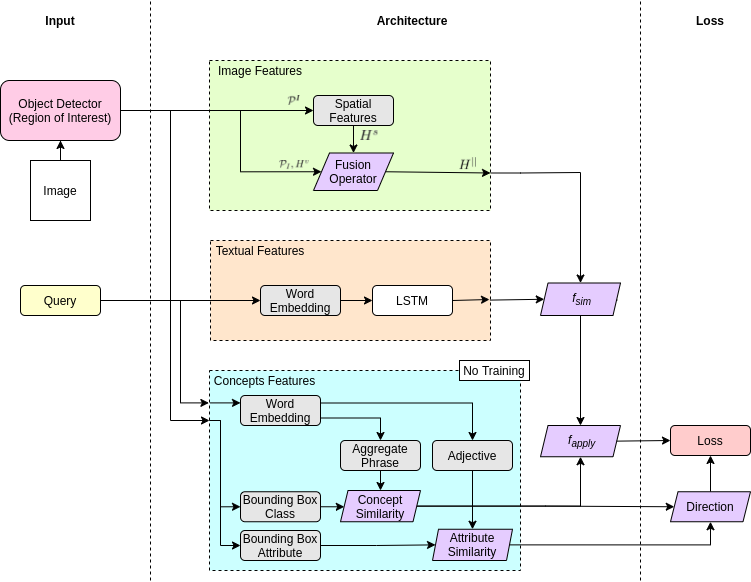
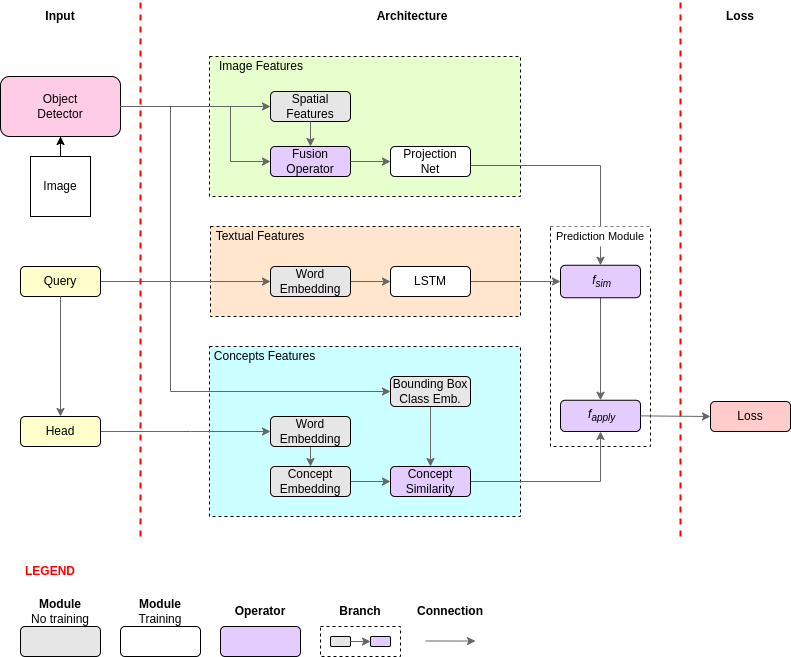
fix(model): minor rephrase, touch up, model architecture fig

diff --git a/chapters/model.tex b/chapters/model.tex
@@ -1,13 +1,7 @@
 %!TEX root = ../dissertation.tex
-\begin{savequote}[75mm]
-This is some random quote to start off the chapter.
-\qauthor{Firstname lastname}
-\end{savequote}
 
 \chapter{Model and approach}
 \label{ch:model}
-
-\todo{rivedere il titolo del capitolo}
 
 \section{Model}
 
@@ -20,8 +14,6 @@ with the prediction and loss modules in
 Sec.~\ref{subsec:prediction-module} and \ref{sec:loss}. We then
 conclude highlighting the training and inference protocol in
 Sec.~\ref{sec:training-and-inference}.
-
-TODO \todo{CAMBIARE IMMAGINE, QUESTA é QUELLA SBAGLIATA}
 
 \begin{figure}
   \centering
@@ -49,7 +41,7 @@ TODO \todo{CAMBIARE IMMAGINE, QUESTA é QUELLA SBAGLIATA}
 
 Given an image $\bm{I}$, we extract a set of $k$ bounding box
 proposals $\calP_{\bm{I}} = \{ \bm{p}_i \}^k_{i=1}$ by means of a
-pre-trained object detector where $p_i \in \Rset^4$, jointly with
+pre-trained object detector where $\bm{p}_i \in \Rset^4$, jointly with
 features $H^v = \{ \bm{h}^v_i \}^k_{i=1}$, where $\bm{h}^v_i \in
 \Rset^v$. The features represent the internal object detector
 activation values before the classification layers and regression
@@ -68,7 +60,7 @@ a set of new vectorial representations $H^{||} = \{ \bm{h}^{||}_{jz}
 \}_{j \in [1, \ldots, m], z \in [1, \ldots, k]}$, where vectors
 $\bm{h}^{||}_{jz}$ are defined as:
 \begin{equation}
-  \bm{h}^{||}_{jz} = \bm{W}^{||} \left( \bm{h}^s_z || L1(\bm{h}^v_z) \right) + \bm{b}^{||}
+  \bm{h}^{||}_{jz} = \bm{W}^{||} \big( \bm{h}^s_z || L1(\bm{h}^v_z) \big) + \bm{b}^{||}
   \label{eq:h-par-jz}
 \end{equation}
 where $||$ indicates the concatenation operator, $\bm{h}^{||}_{jz} \in
@@ -88,13 +80,12 @@ detectors, and it will be used in Sec.~\ref{subsec:similarity-branch} to define 
 
 Regarding the textual features extraction, given a noun phrase
 $\bm{q}_j$, initially all its words $W^{\bm{q}_j} = \{ w^{\bm{q}_j}_i
-\}^l_{i=1}$ are embedded in a set of vectors $E^{\bm{q}_j} =
-\{e^{\bm{q}_j}_i \}^l_{i=1}$ where $e^{\bm{q}_j}_i \in \Rset^w$, where
-$w$ is the size of the embedding. Then, our model applies a LSTM
-neural network (Sec.~\ref{subsec:gated-rnn}) to generate from the
-sequence of word embeddings only one new embedding $\bm{h}^*_j$ for
-each phrase $\bm{q}_j$. This textual features extraction is defined
-as:
+\}^l_{i=1}$ are embedded in a set of vectors $E^{\bm{q}_j} = \{ \eqj_i
+\}^l_{i=1}$ where $\eqj_i \in \Rset^w$, where $w$ is the size of the
+embedding. Then, our model applies a LSTM neural network
+(Sec.~\ref{subsec:gated-rnn}) to generate from the sequence of word
+embeddings only one new embedding $\bm{h}^*_j$ for each phrase
+$\bm{q}_j$. This textual features extraction is defined as:
 \begin{equation}
   \bm{h}^*_j = L1(LSTM(E^{\bm{q}_j}))
   \label{eq:h-star}
@@ -126,11 +117,16 @@ way that it can express the content of a proposal. This information is
 made available by the object detector, which usually return a
 probability distribution over a set of labels, for each proposal
 (Sec.~\ref{subsec:visual-branch}). We can easily gather the label that
-best express proposal's content by simply taking label looking for the
-one with maximum probability. This label is just a word (or, in some
-case a combination of words), that can be naturally embedded in the
-word embeddings space. The word embedding that express phrase concept,
-instead, can be a word from the phrase or a combination of words.
+best express proposal's content by simply taking the label with
+maximum probability. Such label is just a word (or, in few cases a
+combination of words), that can be naturally embedded in the word
+embeddings space. The word embedding that express phrase concept,
+instead, can be a single word selected from the phrase or a
+combination of words. Following a similar idea of
+\cite{javed2018learning} where they perform concept selection
+filtering out non-noun words, we select the concept among heads of
+phrase. Heads are extracted trough an off-the-shelf parser
+(Sec.~\ref{subsec:nlp-tools}). 
 
 Formally, we define $\EPI = \{\ePI_i \}^{k}_{i=1}$ the set of labels
 embeddings build on the set of proposal $\calP^{\bm{I}}$. Each
@@ -139,17 +135,17 @@ maximum probability by the object detector for the $i$-th proposal.
 Then, given a noun phrase $\bm{q}_j$ along with $E^{\bm{q}_j}$, we
 compute the concept similarity score for each proposal $\bm{p}_i$ as:
 \begin{equation}
-  \bm{S}^c_{ji} = \fsim \left( \xi_j, \ePI_i \right),
+  \bm{S}^c_{ji} = \fsim \left( \erqj_j, \ePI_i \right),
 \end{equation}
-where $\fsim$ is a similarity measure such us the cosine similarity,
-and $\xi_j$ is the embedding representing the concept of the noun
-phrase $\qj$. The new embedding $\xi_j$ can be computed with various
-strategies, and we can group these into two main groups. The first is
-the group where we can find operators that take into account the
+where $\fsim$ is a similarity measure (such us the cosine similarity),
+and $\erqj_j$ is the embedding representing the concept of the noun
+phrase $\qj$. The new embedding $\erqj_j$ can be computed with various
+strategies, and we can group these into two main categories. The first
+is the group where we can find operators that take into account the
 entire phrase to generate a representative. A widely used strategy is
 to generate a new embedding by averaging phrase's word embeddings:
 \begin{equation}
-  \xi_j = \frac{\sum^l_{i=1} \eqj_i}{| \Eqj |},
+  \erqj_j = \frac{\sum^l_{i=1} \eqj_i}{| \Eqj |},
 \end{equation}
 however, there is an evidence that such averaging operations can
 compromise the discriminativeness
@@ -165,19 +161,20 @@ different dataset: on Flickr30k Entities it is the second best
 strategy while in ReferIt it doesn't even appear on the leaderboard.}
 More complex strategies, instead, take into account external
 information, such us the similarity wrt proposal class embeddings.
-Here, we compute the similarity between word in noun phrase and
-proposal class embeddings and then we select one word in the noun
-phrase with maximum similarity wrt the detected concept in proposal:
+Following \cite{wang2019phrase}, we compute the similarity between
+word in noun phrase and proposal class embeddings and then we select
+one word in the noun phrase with maximum similarity wrt the detected
+concept in proposal:
 \begin{equation}
-  \xi_j = \argmax_{\eqj \in \Eqj} \{ \max g(\eqj) \},
+  \erqj_j = \argmax_{\eqj \in \Eqj} \{ \max g(\eqj) \},
   \label{eq:concept-embedding-max-sim}
 \end{equation}
 where
 \begin{equation}
   g(\eqj) = \{ \fsim(\ePI, \eqj) \mid \ePI \in \EPI \}.
 \end{equation}
-The latter case is better explained by means of an example, such us
-the one in Fig.~\ref{fig:concept-selection-example}. For the sake of
+This strategy is better explained by means of an example, such us the
+one in Fig.~\ref{fig:concept-selection-example}. For the sake of
 presentation, we assume to deal with an object detector trained on two
 class labels $Cls = \{ \text{sky}, \text{animal} \}$. We are given an
 image (in figure) and the query ``the blue elephant''. As described in
@@ -283,47 +280,41 @@ contrastive objective $\calL$ aims to learn the visual and textual
 features by maximizing the similarity score between paired
 image-caption elements and minimizing the score between the negative
 samples (i.e., other irrelevant captions). Formally, given $\bm{I}$
-the image, $Q_S = \{ \bm{q}_j \}^m_{j=1}$ the set of noun phrases
-built on the sentence $S$ that describes $\bm{I}$ and $Q'_S = \{
-\bm{q}_h \}^{m'}_{h=1}$ the set of noun phrases built on $S'$ that do
-not describe $\bm{I}$, we define $\calL$ as:
+the image, $S$ a sentence that describes $\bm{I}$ and $S'$ a sentence
+that do not describe $\bm{I}$, we define $\calL$ as:
 \begin{equation}
-  \calL = - \frac{1}{m} \sum^m_{j=1} \calL_j,
+  \calL =  - \fmmsim(\bm{I}, S) + \fmmsim(\bm{I}, S'),
 \end{equation}
 where
+$\fmmsim$ is the multimodal image-sentence similarity function, defined as:
 \begin{equation}
-  \calL_j = \log \frac{e^{\fmmsim(\bm{I}, \bm{q}_j)}}{\sum^{m'}_{h = 1} e^{\fmmsim'(\bm{I}, \bm{q}_{h})}}.
+  \fmmsim(\bm{I}, S) = \frac{1}{m} \sum_j \max_z \bm{P}_{jz}
 \end{equation}
-Here, $\fmmsim$ and $\fmmsim'$ are the multimodal similarity functions
-between image and positive/negative queries, respectively. We define
-\begin{equation}
-  \fmmsim(\bm{I}, \bm{q}_j) = \max_{z} \bm{P}_{jz}, \qquad \text{and} \qquad \fmmsim'(\bm{I}, \bm{q}_h) = \max_z \bm{P}_{hi}
-\end{equation}
-where $\bm{P}_{jz}$ is the predicted similarity between query
-$\bm{q}_j$ and proposal $\bm{p}_z$ with $\bm{p}_z \in \calP_{\bm{I}}$,
-while $i = \argmax_z \bm{P}_{hz}$. Basically, the model optimizes the
-similarity between each positive query $\bm{q}_j$ and the image
-$\bm{I}$ to be higher, while the similarity between negative queries
-$\bm{q}_h$ and image $\bm{I}$ to be smaller. Moreover, the similarity
-function on negative queries $\fmmsim'$ bounds the model to consider
-only bounding boxes affected by positive queries.
+where $m$ is the number of noun phrases in $S$ and $\bm{P}_{jz}$ is
+the predicted similarity between query $\bm{q}_j$ and proposal
+$\bm{p}_z$. Basically, the goal of $\fmmsim$ is to express an averaged
+representation of queries wrt the image.
+
+In contrast of what done in \cite{wang2020maf} where they gather
+negative sentences from batch, we randomly sample a single negative
+sentence from the dataset.
 
 \section{Training and Inference}
 \label{sec:training-and-inference}
 
-At training stage, we are given the example $(\bm{I}, S)$ with
-$\calP_{\bm{I}} = \{ \bm{p}_i \}^k_{i=1}$ are bounding box proposal
-built on $\bm{I}$ and $\bm{q}_j$ are queries in $S$. As noted in
-Sec.~\ref{subsec:visual-branch} we use extra information from object
-detector such us the probability distribution on bounding box class
-labels $Pr_{Cls}(\bm{p}_i)$. Following \cite{chen2018knowledge} we fix
-$k = 100$ proposals. (We studied how $k$ can affect results in
-Sec.~\ref{sec:data-analysis}). The parameters to be optimized include
-parameters in encoding LSTM (Eq.~\ref{eq:h-star}) and projection
-parameters (Eq.~\ref{eq:h-par-jz}). We use the cosine similarity as
-similarity measure $\fsim$ between vectors. Our network is trained
-end-to-end using Adam optimizer with gradient clipping set to $1$ and
-learning rate $0.001$.
+At training stage, we are given the example $(\bm{I}, S)$ where
+$\calP_{\bm{I}} = \{ \bm{p}_i \}^k_{i=1}$ is the set of bounding box
+proposals built on $\bm{I}$ and $\bm{q}_j$ are queries in $S$. As
+noted in Sec.~\ref{subsec:visual-branch} we use extra information from
+object detector such us the probability distribution on bounding box
+class labels $Pr_{Cls}(\bm{p}_i)$. Following \cite{chen2018knowledge}
+we fix $k = 100$ proposals. (We studied how $k$ can affect results in
+Sec.~\ref{sec:data-analysis}). We optimize parameter of the LSTM
+network (Eq.~\ref{eq:h-star}) and projection network
+(Eq.~\ref{eq:h-par-jz}). We use the cosine similarity as similarity
+measure $\fsim$ between vectors. Our network is trained end-to-end
+using Adam optimizer with gradient clipping set to $1$ and learning
+rate $0.001$.
 
 At test stage, we feed the $\bm{q}_j$ and $\calP_{\bm{I}}$ to the
 model. It predict a similarity score from $-1$ to $1$ for each
@@ -331,3 +322,17 @@ bounding box. The grounded proposal is defined as:
 \begin{equation}
   \bm{p}_{z^*} \quad \text{s.t.} \quad z^* = \argmax_z \bm{P}_{jz}.
 \end{equation}
+According to \cite{wang2019phrase}, for some experiments we select the
+grounded proposal as the union box of the proposal with the same class
+label as the box predicted with maximum confidence $\bm{p}_{z^*}$:
+\begin{equation}
+  \bm{p}^u_{z^*} = \bigcup P_{z^*}
+\end{equation}
+where we intend $\bigcup$ on set of proposal as the union box
+operator, $P_{z^*}$ is the set of proposal with same class label as
+$\bm{p}_{z^*}$, thus:
+\begin{equation}
+  P_{z^*} = \{ \bm{p} \mid \bm{p} \in \calP_{\bm{I}} \land cls(\bm{p}) = cls(\bm{p}_{z^*}) \},
+\end{equation}
+where $cls(\bm{p}) = Cls_{\argmax_z Pr_{Cls}(\bm{p})}$ is the function
+that returns the class label of a proposal.

diff --git a/frontmatter/macros.tex b/frontmatter/macros.tex
@@ -55,9 +55,9 @@
 \newcommand*{\iou}{\text{IoU}}
 \newcommand*{\bbox}{\bm{b}}
 \newcommand*{\qj}{\bm{q}_j}
-\newcommand*{\eqj}{e^{\qj}}
+\newcommand*{\eqj}{\bm{e}^{\qj}}
 \newcommand*{\Eqj}{E^{\qj}}
-\newcommand*{\ePI}{e^{\calP_{\bm{I}}}}
+\newcommand*{\ePI}{\bm{e}^{\calP_{\bm{I}}}}
 \newcommand*{\EPI}{E^{\calP_{\bm{I}}}}
 \newcommand*{\fsim}{f_{\text{sim}}}
 \newcommand*{\fmmsim}{sim}
@@ -66,3 +66,4 @@
 \newcommand*{\floss}{f_{\text{loss}}}
 \newcommand*{\fdir}{f_{\text{dir}}}
 \newcommand*{\sent}{S}
+\newcommand*{\erqj}{\bm{\xi}}  % representative embedding for query q_j

diff --git a/chapters/background.tex b/chapters/background.tex
@@ -405,6 +405,7 @@ Fig.~\ref{fig:upos-tags}.
 \end{figure}
  
 \subsection{NLP Tools}
+\label{subsec:nlp-tools}
 
 During years many good NLP tools were developed. The reasons are
 twofold: first of all the availability of open-source dataset
